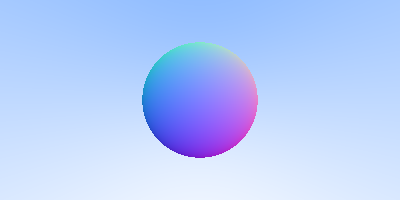
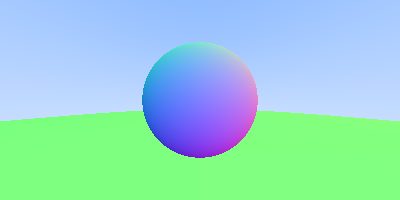
ground sphere

diff --git a/rt.cpp b/rt.cpp
@@ -35,6 +35,10 @@ int main( int argc, char** argv )
 	Vec3f bias( -2.0f, -1.0f, -1.0f );
 
 	Sphere sphere( Vec3f( 0, 0, -1 ), 0.5 );
+	Sphere sphere2( Vec3f( 0, -100.5, -1 ), 100 );
+	HitableCollection collection;
+	collection.hitables.push_back( &sphere );
+	collection.hitables.push_back( &sphere2 );
 
 	for ( int j = 0; j < h; j++ )
 	{
@@ -44,7 +48,7 @@ int main( int argc, char** argv )
 			Ray ray( origin, coord * scale + bias );
 			Vec3f col = EnvColorFromRay( ray );
 			Hit hit;
-			if ( sphere.Hits( ray, 0, 1000, &hit ) )
+			if ( collection.Hits( ray, 0, 1000, &hit ) )
 			{
 				col = hit.n * 0.5f + 0.5f;
 			}
